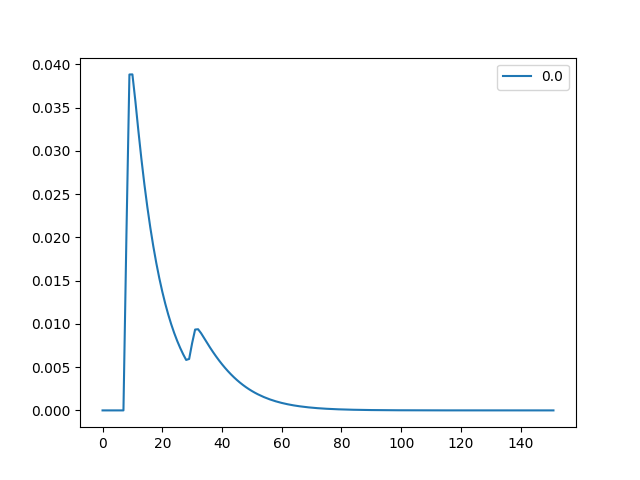
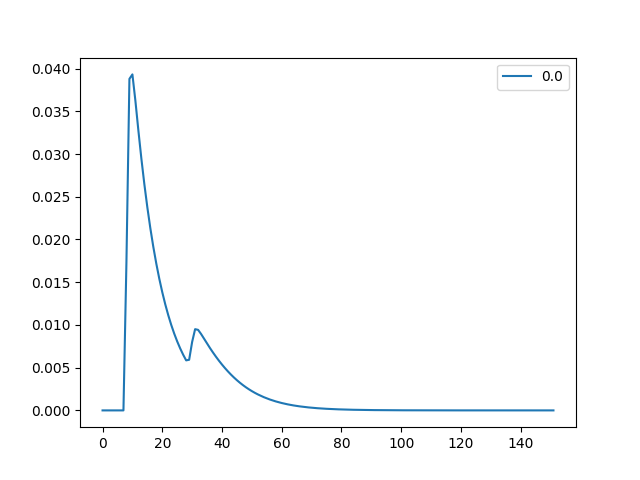
adjust methods

diff --git a/methods_algorithm.py b/methods_algorithm.py
@@ -6,17 +6,26 @@ def warm_start(Mat, Lambda_param, stop_condition):
     """
     Soft_Imputeをcold startさせないための方法
     """
+
+    """
+    何度もclassを呼び出す必要が無いと思ったので、分離して見た
+    """
     X_Original = Mat.Original
     X_train = Mat.Train
     X_test = Mat.Test
     Y = Mat.Observe
     R = Mat.Cast
 
-    X_k = np.zeros(X_train.shape)
-    Lambda = Lambda_param.start
+    """
+    グラフ描画用のデータの初期化
+    """
     cal_total_error(flag='init')
     cal_test_error(flag='init')
     cal_terminal_condition(flag='init')
+
+    X_k = np.zeros(X_train.shape)
+    Lambda = Lambda_param.start
+
     while(Lambda > Lambda_param.end):
         X_k = soft_impute(Y, R, X_k, Lambda, stop_condition)
         total_error = cal_total_error(X_k, X_Original)
@@ -24,8 +33,13 @@ def warm_start(Mat, Lambda_param, stop_condition):
         print('Lambda: {:.3g}, total_error: {:.3g}, test_error: {:.3g}'.format(
             Lambda, total_error, test_error))
         Lambda *= Lambda_param.ratio
+
+    """
+    グラフの描画
+    """
     cal_total_error(flag='plot')
     cal_test_error(flag='plot')
+
     return X_k
 
 
@@ -33,14 +47,19 @@ def soft_impute(Y, R, X_k, Lambda, stop_condition):
     """
     アルゴリズムのメイン
     """
+
     val = stop_condition
     N, M = Y.shape
+
     while(val >= stop_condition):
         X_p = X_k
 
         U, S, V = np.linalg.svd(X_k, full_matrices=False)
         S_ = np.array([soft_threshold(s, Lambda) for s in S])
         X_k = np.dot(np.dot(U, np.diag(S_)), V)
+        """
+        ここの書き方がきたないから嫌いだが、速く綺麗な書き方が分からない
+        """
         for i in range(N):
             for j in range(M):
                 if(R[i, j] != 0):

diff --git a/methods_cal_param.py b/methods_cal_param.py
@@ -4,21 +4,28 @@ from methods_graph import add_val, plot_val
 
 
 def cal_total_error(X_k='', X_Original='', flag=''):
+    """
+    全体の誤差を評価する
+    """
     func_name = sys._getframe().f_code.co_name
     if flag == '':
         num = np.linalg.norm(X_k - X_Original)
         den = np.linalg.norm(X_Original)
         val = num / den
-
         add_val(func_name, val)
         return val
+
     elif flag == 'plot':
         plot_val(func_name)
+
     elif flag == 'init':
         add_val(func_name, flag=flag)
 
 
 def cal_test_error(X_k='', X_test='', flag=''):
+    """
+    テスト用に分離させて置いた部分のみの誤差を評価する
+    """
     func_name = sys._getframe().f_code.co_name
     if flag == '':
         num = 0.0
@@ -31,13 +38,18 @@ def cal_test_error(X_k='', X_test='', flag=''):
         val = np.sqrt(num) / den
         add_val(func_name, val)
         return val
+
     elif flag == 'plot':
         plot_val(func_name)
+
     elif flag == 'init':
         add_val(func_name, flag=flag)
 
 
 def cal_terminal_condition(X_k='', X_p='', flag=''):
+    """
+    アルゴリズムの終端条件を満たすかどうか評価する
+    """
     func_name = sys._getframe().f_code.co_name
     if flag == '':
         num = np.linalg.norm(X_k - X_p)
@@ -45,7 +57,9 @@ def cal_terminal_condition(X_k='', X_p='', flag=''):
         val = num / den if den > 0 else 0.0
         add_val(func_name, val)
         return val
+
     elif flag == 'plot':
         plot_val(func_name)
+
     elif flag == 'init':
         add_val(func_name, flag=flag)

diff --git a/main.py b/main.py
@@ -1,16 +1,19 @@
 # import pandas as pd
 from collections import namedtuple
 from methods_algorithm import warm_start
-from methods_graph import plot_val
 from class_matrix import Matrix
 
 if __name__ == "__main__":
+
     """
     メインの関数
-    長々と書いてるのをもっと切り分けたい
+    """
+
+    """
+    パラメータの設定
     """
     Mat = Matrix(N=100, M=100, rate_dense=0.1,
-                 rate_sample=0.9, rate_train_test=0.9)
+                 rate_sample=0.9, rate_train_test=0.9, noise_rate=0.0)
 
     LAMBDA = namedtuple('LAMBDA', ('start', 'end', 'ratio'))
     Lambda_param = LAMBDA(start=pow(10, 2), end=pow(10, -5), ratio=0.9)
@@ -24,24 +27,18 @@ if __name__ == "__main__":
     # Mat.Original = pd.read_csv('data.csv')
 
     """
-    評価用にデータを分ける
+    評価用にデータを分離
     """
-    Mat.split_to_test_and_train()
+    Mat.make_train_and_test_matrix()
 
     """
     再構成時に使用するデータをアンダーサンプリングする
     評価用に取り分けた部分は別枠で取り除くので、学習用のデータをさらに差っ引く場合にレートを下げる
     """
     Mat.make_sampling_matrix()
+    Mat.make_observed_matrix()
 
     """
     アルゴリズムを実行する
     """
     X_k = warm_start(Mat, Lambda_param, stop_condition)
-
-    """
-    描画する
-    """
-    plot_val('cal_total_error')
-    plot_val('cal_test_error')
-    plot_val('cal_terminal_condition')

diff --git a/class_matrix.py b/class_matrix.py
@@ -4,12 +4,13 @@ import random
 
 class Matrix:
 
-    def __init__(self, N=100, M=100, rate_dense=0.1, rate_sample=0.7, rate_train_test=0.3):
+    def __init__(self, N=100, M=100, rate_dense=0.1, rate_sample=0.7, rate_train_test=0.3, noise_rate=0.0):
         self.N = N
         self.M = M
         self.rate_dense = rate_dense
         self.rate_sample = rate_sample
         self.rate_train_test = rate_train_test
+        self.noise_rate = noise_rate
 
     def make_target_matrix(self):
         """
@@ -22,7 +23,7 @@ class Matrix:
         X = np.dot(np.dot(U, np.diag(S_)), V)
         self.Original = X
 
-    def split_to_test_and_train(self):
+    def make_train_and_test_matrix(self):
         """
         再構成がうまく出来ているかどうかを調べるために、訓練データとテストデータに分ける
         0の値は0を観測したのか観測できなかったのかの判断が面倒なので、
@@ -56,5 +57,8 @@ class Matrix:
             for j in range(self.M):
                 if self.Test[i, j] == 0 and random.random() < self.rate_sample:
                     self.Cast[i, j] = 1.0
+
+    def make_observed_matrix(self):
         self.Observe = self.Cast * self.Train
-        # self.Observe += 0.01 * np.random.normal(0, 1, (self.N, self.M))
+        noise_matrix = np.random.normal(0, 1, (self.N, self.M))
+        self.Observe += self.noise_rate * noise_matrix

diff --git a/methods_graph.py b/methods_graph.py
@@ -1,4 +1,3 @@
-import numpy as np
 import csv
 import matplotlib.pyplot as plt
 import pandas as pd
@@ -6,6 +5,9 @@ import pandas as pd
 
 
 def add_val(func_name, val='', flag=''):
+    """
+    グラフ描画用にデータを保存する
+    """
     if flag == 'init':
         with open(func_name + '.dat', 'w') as f:
             writer = csv.writer(f, lineterminator='\n')
@@ -17,6 +19,9 @@ def add_val(func_name, val='', flag=''):
 
 
 def plot_val(func_name):
+    """
+    グラフを描画する
+    """
     df = pd.read_csv(func_name + '.dat')
     df.plot()
     plt.savefig('{}.png'.format(func_name))

diff --git a/README.md b/README.md
@@ -17,5 +17,7 @@ methods_cal_param.py calculate parameters such as error terminal condition and s
 methods_matrix.py contains manipulation functions such as to make matrix low rank.
 
 to use gnuplot
+```
 $ brew cask install xquartz
 $ brew install gnuplot --with-aquaterm --with-x11
+```
